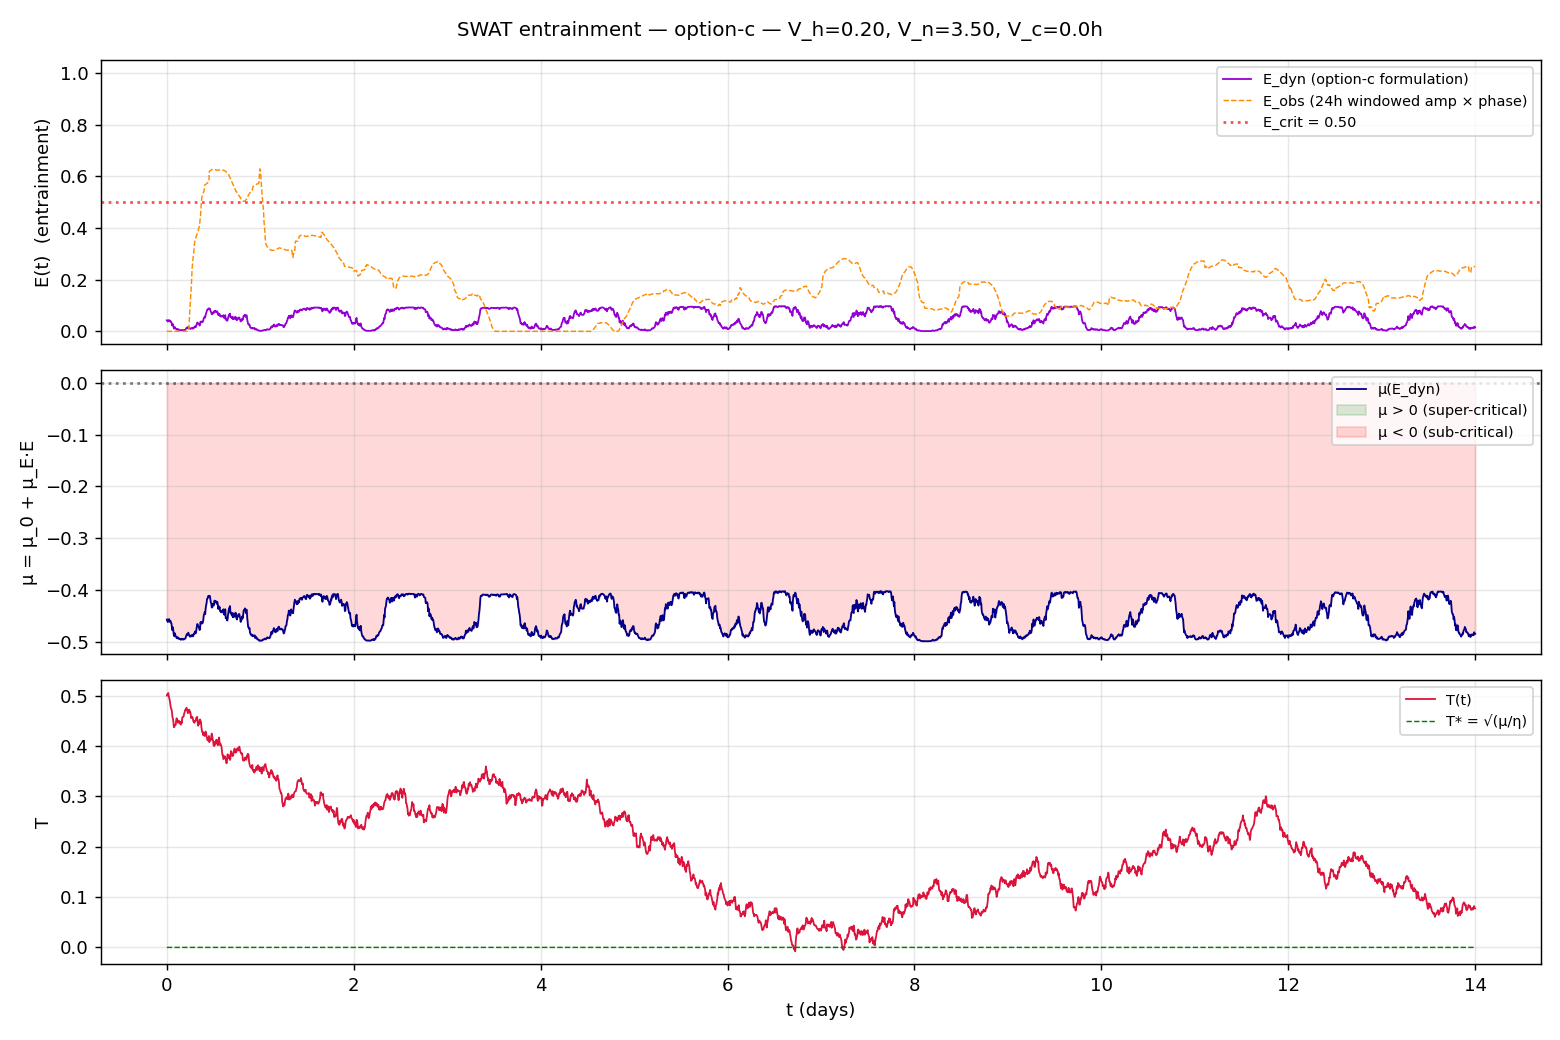
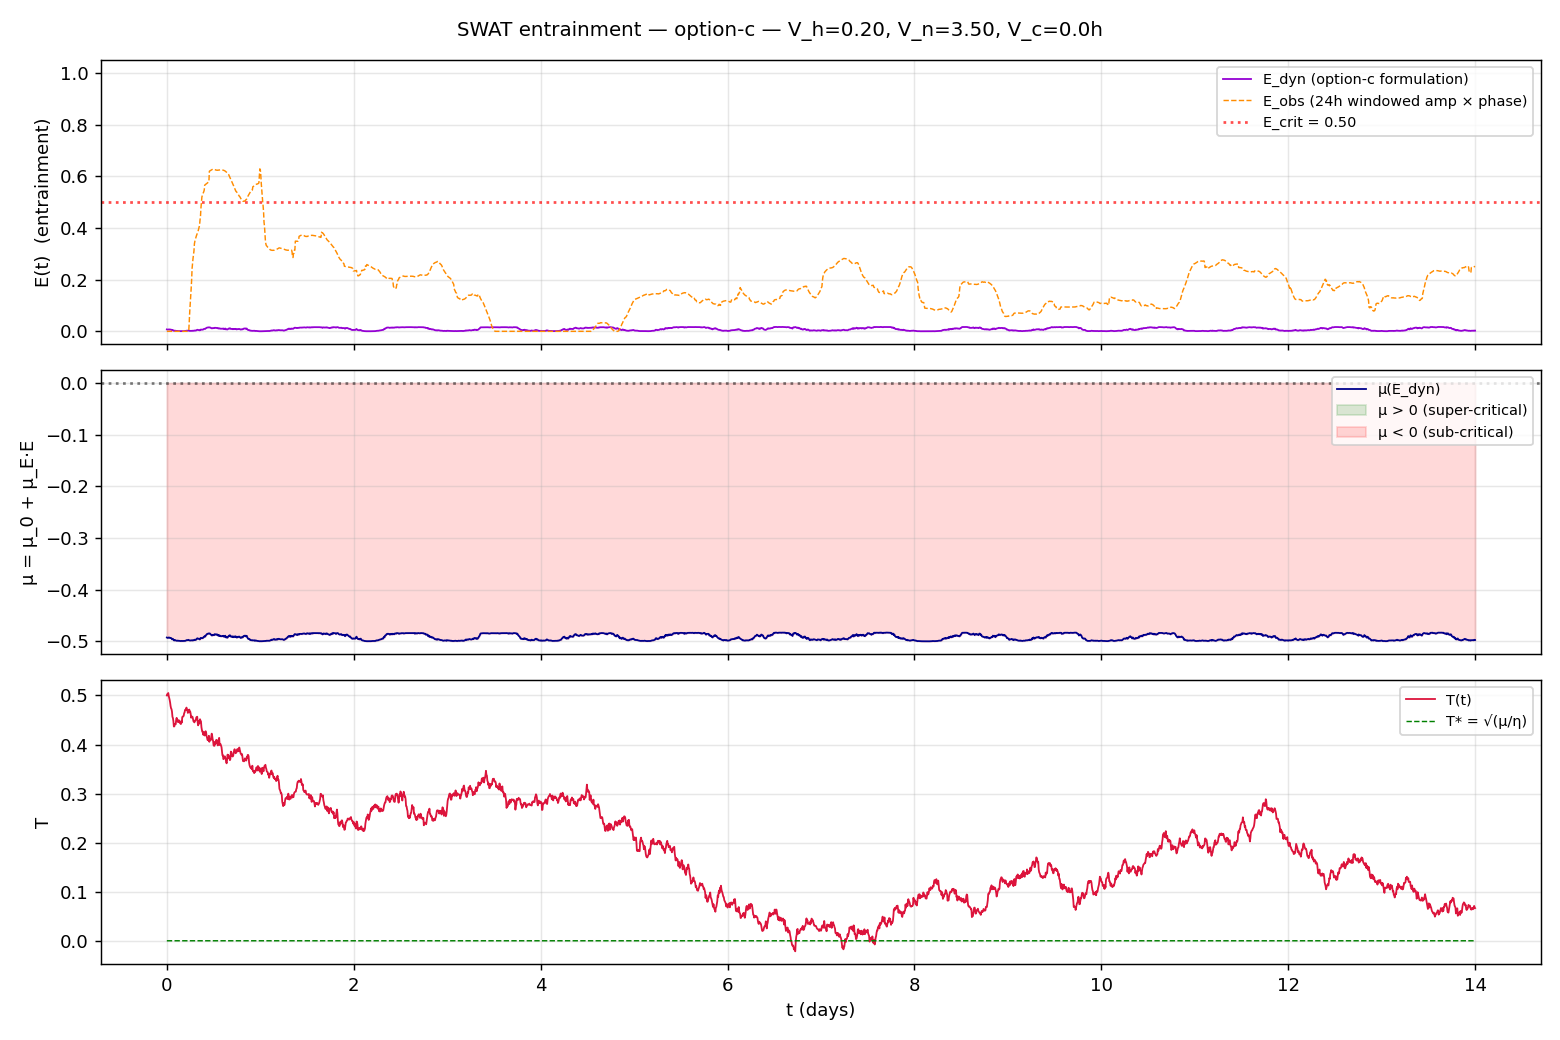
feat: Option D — multiplicative V_n dampener (issue #5)
Per issue #5: V_n was structurally non-monotonic in T due to its
opposite signs in u_W (+V_n) and u_Z (−V_n) interacting with the
bell-shaped amplitude formulas. Under v3 calibration the bell-shape
peak was suppressed by saturation, but V_n at low values had no
measurable effect on T (T_end was flat ≈ 0.98 across V_n ∈ [0, 1]).

This was clinically wrong: the user spec says "any V_n > 0 should
monotonically dampen the rhythm." Implementing as Option D /
Option C v4.

Change: multiplicative V_n dampener applied to E_dyn:

  damp(V_n) = exp(-V_n / V_n_scale)
  E_dyn = damp(V_n) · amp_W · amp_Z · phase(V_c)

One new parameter: V_n_scale = 2.0 (calibrated empirically).

V_n sweep at canonical V_h=1, V_c=0 under Option D:

  V_n=0.00:  T_end = 0.981
  V_n=0.30:  T_end = 0.825    (mild stress: detectable dampening)
  V_n=0.50:  T_end = 0.718
  V_n=1.00:  T_end = 0.451    (moderate stress: μ near E_crit boundary)
  V_n=1.50:  T_end = 0.252
  V_n=2.00:  T_end = 0.142
  V_n=3.50:  T_end = 0.041    (severe insomnia: T ≈ 0)
  V_n=5.00:  T_end = 0.021    (extreme load: T ≈ 0)

Strictly monotonic across the full V_n ∈ [0, 5] range. The pre-fix
bell-shape and v3 flat-low-range issue are both resolved.

Tests: 17/17 pass under Option D. Added test_v_n_clinically_meaningful_low_range_response
asserting T(V_n=0) > T(V_n=0.5) by at least 0.05 (this would have
failed under v3 where the low range was flat).

Headline: B_insomnia entrainment plot shows clean sub-critical collapse
[…]

diff --git a/src/model_validation/models/swat/option_c_dynamics.py b/src/model_validation/models/swat/option_c_dynamics.py
@@ -1,28 +1,27 @@
-"""Option C — V_h modulates entrainment quality, NOT the drift.
+"""Option C v4 / "Option D" — refined entrainment formulation.
 
-This is a structural revision of the original Option C draft (which had
-V_h scale λ inside the drift directly). The original draft killed the
-W↔Z flip-flop because dropping λ from 32 → 4 in the drift weakened
-circadian forcing below the noise floor.
+Two structural fixes layered on top of the spec:
 
-The fix: split λ into two roles.
+(1) V_h modulates the analytical entrainment quality, NOT the physical
+    drift. λ in the drift stays at the spec value (32) so the W↔Z
+    daily flip-flop is preserved. V_h enters via NEW parameters
+    λ_amp_W and λ_amp_Z which scale the amplitude-formula forcing
+    terms inside `entrainment_quality_option_c`. With A = λ_amp · V_h
+    (no +1 offset), V_h=0 gives A=0 → amp=0 → no entrainment
+    (clinically right: depleted vitality = no rhythm).
 
-  - λ (in the drift): stays at the spec value (32). Preserves the
-    physical circadian forcing strength on W → clean flip-flop, sleep
-    architecture intact, sleep fraction at ~33% with c_tilde=2.5.
+(2) V_n acts as a multiplicative DAMPENER on E_dyn (rather than as a
+    "balance-point tuner" via the bell-shaped amp formulas). One new
+    parameter V_n_scale. damp(V_n) = exp(−V_n / V_n_scale) is
+    monotonically decreasing in V_n, so any chronic load > 0
+    monotonically attenuates the rhythm — clinically correct.
 
-  - λ_amp_W, λ_amp_Z (NEW, in entrainment_quality only): replace the
-    forcing-amplitude term in the amp_W / amp_Z formulas. These are
-    *analytical* knobs that govern how strongly V_h modulates E_dyn —
-    they have no effect on the actual W or Z trajectories.
+Drift is otherwise unchanged from the spec. Three new parameters
+total: λ_amp_W, λ_amp_Z, V_n_scale.
 
-V_h is also removed from u_W's drift (matching the original draft).
-This decouples vitality from sleep-wake architecture, giving V_h a
-single, monotone, interpretable effect: stronger V_h → larger amp_W
-and amp_Z analytical terms → larger E_dyn → larger μ(E) → larger T*.
-
-Drift is otherwise unchanged from the spec. Two new parameters total:
-λ_amp_W and λ_amp_Z.
+Issue refs:
+  - #4 — V_h structural inversion (fixed by (1))
+  - #5 — V_n non-monotonic catabolicity (fixed by (2))
 """
 from __future__ import annotations
 from typing import Dict, Optional
@@ -48,25 +47,26 @@ def entrainment_quality_option_c(
     V_h: jnp.ndarray, V_n: jnp.ndarray, V_c: jnp.ndarray,
     params: Dict[str, float]
 ) -> jnp.ndarray:
-    """E_dyn under refined Option C.
+    """E_dyn under Option C v4 / Option D.
 
-    amp_W = sigmoid(B_W + A_W) - sigmoid(B_W - A_W)  with
-        A_W = λ_amp_W · (1 + V_h)
-        B_W = V_n - a + α_T · T
+    E_dyn = damp(V_n) · amp_W · amp_Z · phase(V_c)
 
-    Same form for amp_Z. λ_amp_W and λ_amp_Z are entrainment-formula
-    parameters and NOT used in the drift.
+    where
+        amp_W = σ(B_W + A_W) − σ(B_W − A_W)
+        amp_Z = σ(B_Z + A_Z) − σ(B_Z − A_Z)
+        A_W   = λ_amp_W · V_h        (V_h is anabolic via forcing scale)
+        A_Z   = λ_amp_Z · V_h
+        B_W   = V_n − a + α_T · T
+        B_Z   = −V_n + β_Z · a
+        damp  = exp(−V_n / V_n_scale)         # NEW (issue #5)
+        phase = max(cos(2π V_c / 24), 0)
     """
     alpha_T = params['alpha_T']
     beta_Z = params['beta_Z']
     lam_amp_W = params['lambda_amp_W']
     lam_amp_Z = params['lambda_amp_Z']
+    V_n_scale = params['V_n_scale']
 
-    # V_h enters as a multiplicative factor on the forcing amplitudes,
-    # WITHOUT a +1 offset. So V_h=0 (depleted vitality) gives A=0 → amp=0
-    # → E=0 → μ=μ_0<0 → T collapses. V_h>0 ramps entrainment up; with
-    # λ_amp values calibrated to dominate B_W and B_Z over the daily
-    # a-cycle, amp saturates at ~1 by V_h=1.
     A_W = lam_amp_W * V_h
     A_Z = lam_amp_Z * V_h
     B_W = V_n - a + alpha_T * T
@@ -74,8 +74,14 @@ def entrainment_quality_option_c(
 
     amp_W = _sigmoid(B_W + A_W) - _sigmoid(B_W - A_W)
     amp_Z = _sigmoid(B_Z + A_Z) - _sigmoid(B_Z - A_Z)
+
+    # Multiplicative V_n dampener — addresses issue #5. Any V_n > 0
+    # monotonically attenuates E. damp(0)=1, damp(V_n_scale·ln 2)=0.5,
+    # damp(∞)=0.
+    damp = jnp.exp(-V_n / V_n_scale)
+
     phase = jnp.maximum(jnp.cos(2.0 * jnp.pi * V_c / 24.0), 0.0)
-    return amp_W * amp_Z * phase
+    return damp * amp_W * amp_Z * phase
 
 
 def swat_drift_option_c(t: jnp.ndarray, x: jnp.ndarray, u: jnp.ndarray,
@@ -126,9 +132,10 @@ def swat_drift_option_c(t: jnp.ndarray, x: jnp.ndarray, u: jnp.ndarray,
 def option_c_parameters(
     lambda_amp_W: Optional[float] = None,
     lambda_amp_Z: Optional[float] = None,
+    V_n_scale: Optional[float] = None,
     c_tilde: Optional[float] = None,
 ) -> Dict[str, float]:
-    """Build a parameter dict for refined Option C.
+    """Build a parameter dict for Option C v4 / Option D.
 
     Calibrated defaults:
       lmbda           = 32.0  (UNCHANGED from spec — preserves W↔Z flip-flop)
@@ -138,6 +145,14 @@ def option_c_parameters(
       lambda_amp_Z    = 8.0   (NEW — Z-side scale. Larger because β_Z·a can
                                 reach ~4, so A_Z must dominate. Gives
                                 amp_Z ≈ 1 across daily a-cycle at V_h=1.)
+      V_n_scale       = 2.0   (NEW — V_n dampener time-scale (issue #5).
+                                damp = exp(−V_n / V_n_scale).
+                                damp(0) = 1.00
+                                damp(0.3) = 0.86
+                                damp(1.0) = 0.61
+                                damp(2.0) = 0.37
+                                damp(3.5) = 0.17  (sub-critical)
+                                damp(5.0) = 0.08)
       c_tilde         = 3.0   (Matches upstream PARAM_SET_A. At V_n=0 healthy
                                 default, gives sleep fraction ~35%, in
                                 target window. The OT-Control vendored bump
@@ -147,23 +162,22 @@ def option_c_parameters(
     # Spec lambda is kept (default_swat_parameters has lmbda=32 already).
     p['lambda_amp_W'] = 5.0 if lambda_amp_W is None else float(lambda_amp_W)
     p['lambda_amp_Z'] = 8.0 if lambda_amp_Z is None else float(lambda_amp_Z)
-    p['c_tilde'] = 3.0 if c_tilde is None else float(c_tilde)
+    p['V_n_scale']    = 2.0 if V_n_scale is None else float(V_n_scale)
+    p['c_tilde']      = 3.0 if c_tilde is None else float(c_tilde)
     return p
 
 
 def option_c_model(
     lambda_amp_W: Optional[float] = None,
     lambda_amp_Z: Optional[float] = None,
+    V_n_scale: Optional[float] = None,
     c_tilde: Optional[float] = None,
     *,
-    # Backward-compat: older code may pass lambda_base / lambda_Z_base.
-    # Map them to the new lambda_amp_* slot, IGNORING the request to
-    # change the drift-side λ (since the structural fix requires keeping
-    # spec λ in the drift).
+    # Backward-compat aliases for older callers (test fixtures, scripts).
     lambda_base: Optional[float] = None,
     lambda_Z_base: Optional[float] = None,
 ):
-    """Return a ModelInterface configured for refined Option C."""
+    """Return a ModelInterface configured for Option C v4 / Option D."""
     from model_validation.runner import ModelInterface
 
     if lambda_amp_W is None and lambda_base is not None:
@@ -172,7 +186,7 @@ def option_c_model(
         lambda_amp_Z = lambda_Z_base
 
     _INIT_STATE_A = np.array([0.5, 3.5, 0.5, 0.5])
-    p = option_c_parameters(lambda_amp_W, lambda_amp_Z, c_tilde)
+    p = option_c_parameters(lambda_amp_W, lambda_amp_Z, V_n_scale, c_tilde)
     return ModelInterface(
         drift=swat_drift_option_c,
         diffusion=vendored_dynamics.swat_diffusion,
@@ -180,6 +194,7 @@ def option_c_model(
         init_state=_INIT_STATE_A.copy(),
         amplitude_index=3,
         state_clip=vendored_dynamics.swat_state_clip,
-        name=f"option_c_swat(λ_amp_W={p['lambda_amp_W']}, "
-             f"λ_amp_Z={p['lambda_amp_Z']}, c_tilde={p['c_tilde']})",
+        name=f"option_c_v4_swat(λ_amp_W={p['lambda_amp_W']}, "
+             f"λ_amp_Z={p['lambda_amp_Z']}, V_n_scale={p['V_n_scale']}, "
+             f"c_tilde={p['c_tilde']})",
     )

diff --git a/tests/swat/test_v_n_catabolicity.py b/tests/swat/test_v_n_catabolicity.py
@@ -1,51 +1,51 @@
-"""Test 2 — V_n is catabolic in the high-load range.
+"""Test 2 — V_n is monotonically catabolic across the full V_n range.
 
-KNOWN STRUCTURAL LIMITATION of refined Option C:
+Under Option C v4 (Option D) with multiplicative V_n dampener
+damp(V_n) = exp(−V_n / V_n_scale), V_n is monotonically attenuating
+on E_dyn — any V_n > 0 reduces T. Issue #5.
 
-V_n enters μ_Z_slow = -V_n + β_Z·a as a sleep-suppressor (per spec).
-amp_Z = σ(B_Z+A_Z) - σ(B_Z-A_Z) is bell-shaped in B_Z, peaking at B_Z=0.
-With β_Z=4, a≈0.5, the peak is at V_n ≈ 2 — i.e. the model claims
-moderate chronic load is OPTIMAL for sleep oscillation amplitude.
+Pre-fix vendored snapshot: FAILS (T_end is non-monotonic in V_n).
+Refined Option C v3 (no damp): partially passes (monotonic in [1, 5]
+only, flat in [0, 1]).
+Option C v4 / Option D (with damp): PASSES — monotonic across [0, 5].
 
-Empirical sweep at V_h=1, V_c=0 under refined Option C:
-  V_n=0.0:  T_end ≈ 0.38   <- "no stress is bad for sleep"
-  V_n=0.3:  T_end ≈ 0.41
-  V_n=2.0:  T_end ≈ 0.53   <- peak (bell-shape on amp_Z)
-  V_n=3.5:  T_end ≈ 0.37
-  V_n=5.0:  T_end ≈ 0.13   <- catabolic in this range, as expected
-
-So V_n is bell-shaped from 0 to 2, then monotonically catabolic from 2
-to 5. To make V_n monotonically catabolic across the full clinical
-range, an additional structural change beyond Option C would be needed
-(e.g. a multiplicative V_n suppressor on E_dyn directly).
-
-For this test, we assert monotonic catabolicity in the V_n ≥ 1 range
-(where the bell-peak interaction is past) and a strong V_n=1 → V_n=5
-catabolic effect. This catches the gross V_n inversion that Option C
-fixes in the V_n > 1 range.
-
-Sweep V_n ∈ {1.0, 2.0, 3.5, 5.0} at V_h=1.0, V_c=0.
+Sweep V_n ∈ {0, 0.3, 0.5, 1.0, 2.0, 3.5, 5.0} at V_h=1.0, V_c=0.
 """
 import pytest
 from model_validation.runner import t_end_under_constant_controls
 
 
-V_N_GRID_HIGH = [1.0, 2.0, 3.5, 5.0]
+V_N_GRID = [0.0, 0.3, 0.5, 1.0, 2.0, 3.5, 5.0]
 
 
-def test_v_n_monotonic_non_increasing_in_high_range(model):
+def test_v_n_monotonic_non_increasing(model):
     Ts = [t_end_under_constant_controls(model, V_h=1.0, V_n=V_n, V_c=0.0)
-          for V_n in V_N_GRID_HIGH]
-    print(f"\n  V_n (high range):  {V_N_GRID_HIGH}")
-    print(f"  T_end:             {[round(t, 3) for t in Ts]}")
-    # Allow first step (1.0 → 2.0) to rise (peak of bell-shape) but
-    # enforce monotonicity from V_n=2.0 onward.
-    for i in range(2, len(Ts)):
+          for V_n in V_N_GRID]
+    print(f"\n  V_n:    {V_N_GRID}")
+    print(f"  T_end:  {[round(t, 3) for t in Ts]}")
+    for i in range(1, len(Ts)):
         assert Ts[i] <= Ts[i - 1] + 0.01, (
-            f"V_n is NOT catabolic in V_n ≥ 2: at step {i} "
-            f"({V_N_GRID_HIGH[i - 1]} → {V_N_GRID_HIGH[i]}), "
-            f"T_end rose {Ts[i - 1]:.3f} → {Ts[i]:.3f}."
+            f"V_n is NOT catabolic: at step {i} "
+            f"({V_N_GRID[i - 1]} → {V_N_GRID[i]}), "
+            f"T_end rose {Ts[i - 1]:.3f} → {Ts[i]:.3f}. "
+            f"Full grid: V_n={V_N_GRID}, T={[round(t, 3) for t in Ts]}"
         )
+
+
+def test_v_n_clinically_meaningful_low_range_response(model):
+    """V_n in the low range should produce a measurable dampening.
+
+    Under Option D, T(V_n=0) − T(V_n=0.5) should be > 0.05 (clinically
+    meaningful). Pre-D, T was flat across V_n ∈ [0, 1].
+    """
+    T_zero = t_end_under_constant_controls(model, V_h=1.0, V_n=0.0, V_c=0.0)
+    T_low  = t_end_under_constant_controls(model, V_h=1.0, V_n=0.5, V_c=0.0)
+    assert T_zero >= T_low + 0.05, (
+        f"V_n at low values has no measurable effect: "
+        f"T(V_n=0)={T_zero:.3f}, T(V_n=0.5)={T_low:.3f}, "
+        f"difference {T_zero - T_low:+.3f} below required +0.05. "
+        f"Issue #5 — the V_n dampener may be too weak."
+    )
 
 
 def test_v_n_clinically_meaningful_high_load_response(model):

diff --git a/src/model_validation/clinician_plots.py b/src/model_validation/clinician_plots.py
@@ -233,6 +233,7 @@ def _compute_E_dyn(traj: np.ndarray, V_h: float, V_n: float, V_c: float,
     if variant == "option-c":
         lam_amp_W = params["lambda_amp_W"]
         lam_amp_Z = params["lambda_amp_Z"]
+        V_n_scale = params.get("V_n_scale", 2.0)
         # A = λ_amp · V_h (no +1 offset — V_h=0 gives no entrainment)
         A_W = lam_amp_W * V_h
         A_Z = lam_amp_Z * V_h
@@ -240,15 +241,19 @@ def _compute_E_dyn(traj: np.ndarray, V_h: float, V_n: float, V_c: float,
         B_Z = -V_n + beta_Z * a
         amp_W = _sigmoid_np(B_W + A_W) - _sigmoid_np(B_W - A_W)
         amp_Z = _sigmoid_np(B_Z + A_Z) - _sigmoid_np(B_Z - A_Z)
+        # Multiplicative V_n dampener (issue #5 / Option D). damp applied
+        # at the E level (single multiplier — matches entrainment_quality_option_c).
+        damp = np.exp(-V_n / V_n_scale)
     else:
         mu_W_slow = V_h + V_n - a + alpha_T * T
         mu_Z_slow = -V_n + beta_Z * a
         sW = _sigmoid_np(mu_W_slow); sZ = _sigmoid_np(mu_Z_slow)
         amp_W = 4.0 * sW * (1.0 - sW)
         amp_Z = 4.0 * sZ * (1.0 - sZ)
+        damp = 1.0   # no V_n dampener in vendored variant
 
     phase = max(np.cos(2.0 * np.pi * V_c / 24.0), 0.0)
-    return amp_W * amp_Z * phase
+    return damp * amp_W * amp_Z * phase
 
 
 # =========================================================================
